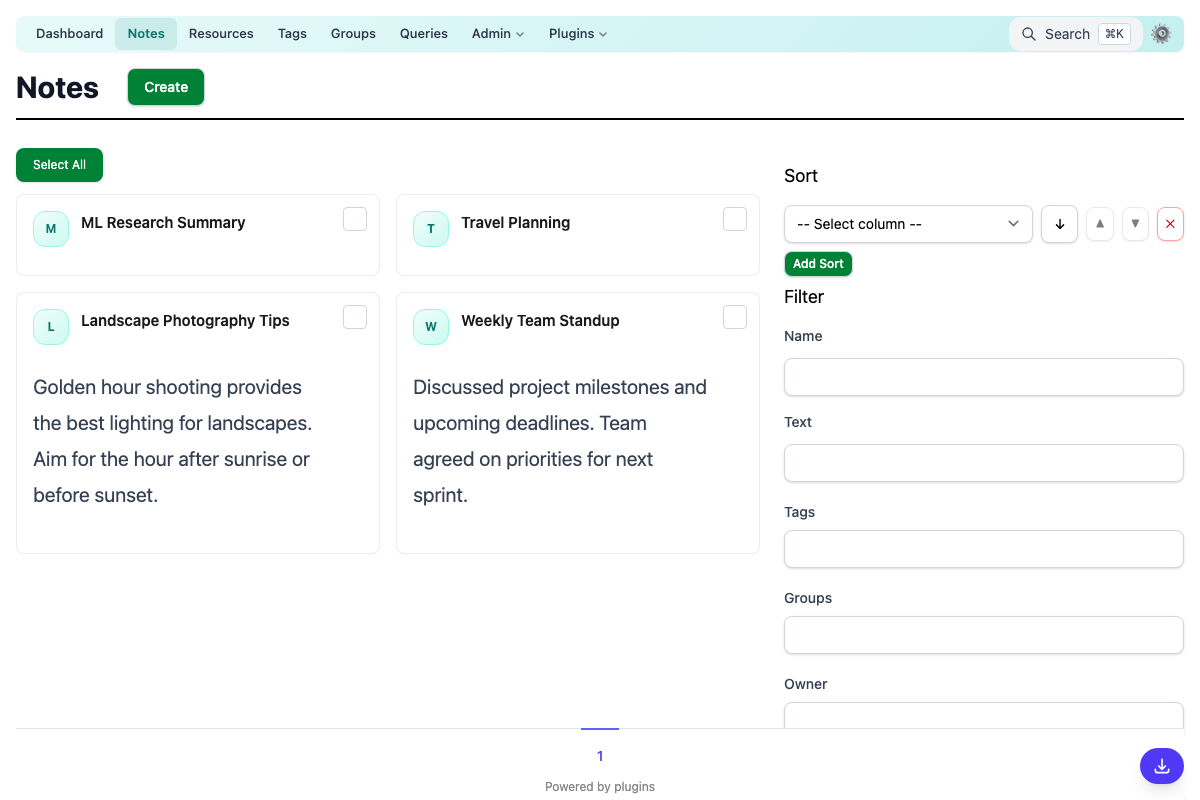
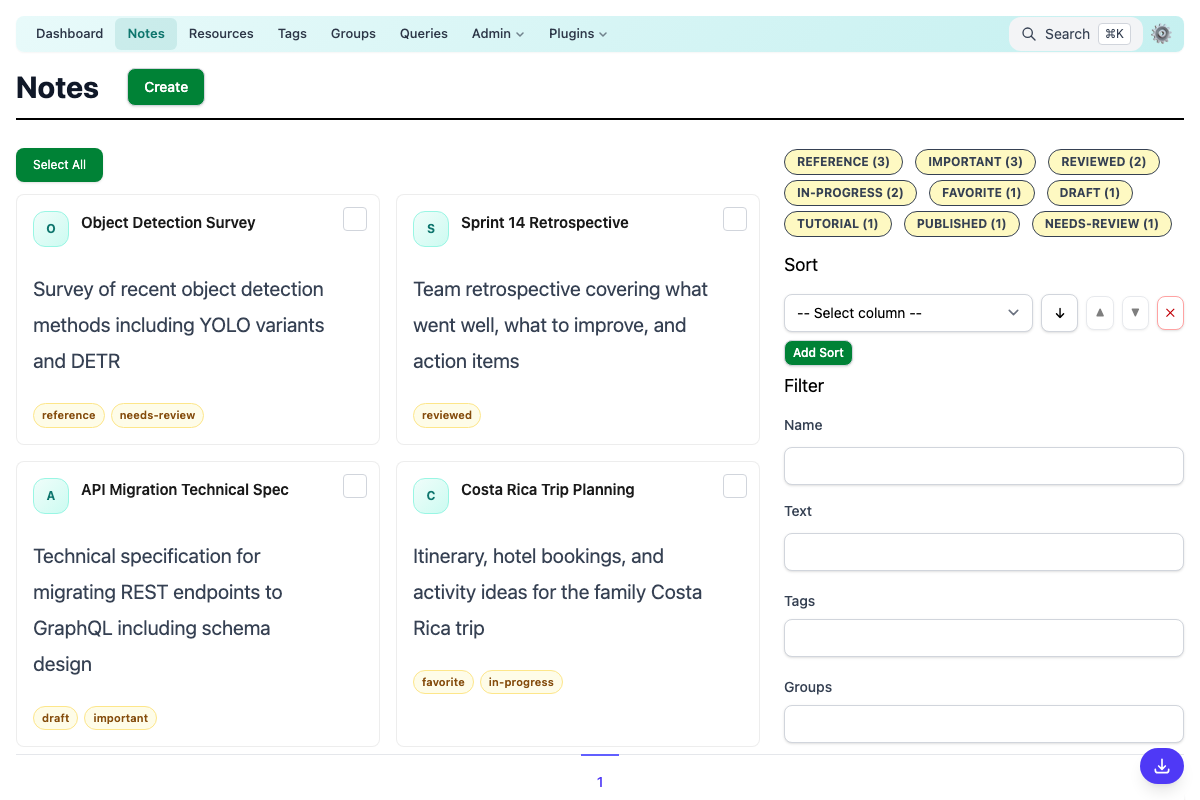
docs: retake all screenshots with richer seed data and add to concept pages
Seeded ephemeral instance with realistic data (13 resources with gradient
images, 12 groups with hierarchy, 8 notes with blocks, 12 tags, 3 versions)
and retook all 24 screenshots. Added 2 new screenshots (relation-list,
relation-types). Added screenshot references to 10 doc pages that were
missing them. Updated screenshot-manifest.json with accurate descriptions.

diff --git a/docs-site/docs/concepts/tags-categories.md b/docs-site/docs/concepts/tags-categories.md
@@ -10,6 +10,8 @@ Tags are flat cross-entity labels, while Categories and Resource Categories defi
 
 Tags are simple labels that can be applied to Resources, Notes, and Groups.
 
+![Tags list](/img/tag-list.png)
+
 ### Tag Properties
 
 | Property | Description |
@@ -141,6 +143,8 @@ Multiple tags are AND-ed (items must have all specified tags).
 ## Categories
 
 Categories define types of Groups with custom presentation and optional metadata schemas.
+
+![Categories list](/img/category-list.png)
 
 ### Category Properties
 

diff --git a/docs-site/docs/getting-started/first-steps.md b/docs-site/docs/getting-started/first-steps.md
@@ -14,6 +14,8 @@ Five main entity types form the core data model:
 - **Tags** - Labels you attach to Resources, Notes, and Groups
 - **Categories** - Types for your Groups (e.g., Person, Project, Topic)
 
+![Dashboard after first setup](/img/dashboard.png)
+
 ## Step 1: Create a Category
 
 Categories define what kind of thing a Group represents (e.g., "Person", "Project", "Location"). Groups can optionally have a Category, but creating a few early helps keep things organized.

diff --git a/docs-site/docs/concepts/relationships.md b/docs-site/docs/concepts/relationships.md
@@ -6,6 +6,8 @@ sidebar_position: 6
 
 Typed relationships add meaning to connections between Groups beyond ownership or many-to-many associations. Each relationship is a directed edge with a named type, forming a navigable graph.
 
+![Relations between groups](/img/relation-list.png)
+
 ## Relationship Types (RelationTypes)
 
 Relationship Types define the kinds of connections that can exist between groups.

diff --git a/docs-site/docs/concepts/groups.md b/docs-site/docs/concepts/groups.md
@@ -7,6 +7,8 @@ title: Groups
 
 Groups are hierarchical containers that organize Resources, Notes, and other Groups. Each Group can own entities (parent-child), relate to entities (many-to-many), and form typed relationships with other Groups via the Relations system.
 
+![Groups list](/img/group-list.png)
+
 ## Group Properties
 
 | Property | Type | Description |

diff --git a/docs-site/docs/concepts/notes.md b/docs-site/docs/concepts/notes.md
@@ -7,6 +7,8 @@ title: Notes
 
 A Note stores text content with optional start and end dates, a type classification, and relationships to Resources, Groups, and Tags. Notes support a block-based content system for structured editing and public sharing via unique tokens.
 
+![Notes list](/img/note-list.png)
+
 ## Note Properties
 
 | Property | Type | Description |

diff --git a/docs-site/docs/concepts/note-blocks.md b/docs-site/docs/concepts/note-blocks.md
@@ -7,6 +7,8 @@ title: Note Blocks
 
 Note Blocks provide a structured content system within Notes. Each block has a type, a string-based position for ordering, JSON content (edited in edit mode), and JSON state (modified while viewing).
 
+![Note with blocks](/img/note-blocks.png)
+
 ## Block Properties
 
 | Property | Type | Description |

diff --git a/docs-site/docs/concepts/resources.md b/docs-site/docs/concepts/resources.md
@@ -6,6 +6,8 @@ sidebar_position: 2
 
 Every file in Mahresources is a Resource: images, documents, videos, or anything else. Each file is hashed for deduplication, gets automatic thumbnails where supported, and has version history.
 
+![Resource grid view](/img/grid-view.png)
+
 ## Resource Properties
 
 | Property | Description |

diff --git a/docs-site/docs/concepts/overview.md b/docs-site/docs/concepts/overview.md
@@ -6,6 +6,8 @@ sidebar_position: 1
 
 Mahresources organizes data around eleven entity types connected by ownership and many-to-many relationships.
 
+![Dashboard overview](/img/dashboard.png)
+
 ## Entity Types
 
 | Entity | Purpose | Example Uses |

diff --git a/docs-site/docs/user-guide/managing-resources.md b/docs-site/docs/user-guide/managing-resources.md
@@ -6,6 +6,8 @@ sidebar_position: 2
 
 Resources are files of any type: images, documents, videos, or anything else you want to store and organize.
 
+![Resource detail view](/img/resource-detail-view.png)
+
 ## Uploading Resources
 
 ### File Upload

diff --git a/docs-site/docs/user-guide/managing-notes.md b/docs-site/docs/user-guide/managing-notes.md
@@ -6,6 +6,8 @@ sidebar_position: 3
 
 Create, edit, and organize text content with date ranges, block-based editing, metadata, and type-specific templates.
 
+![Notes list view](/img/note-list.png)
+
 ## Creating Notes
 
 ### Basic Note Creation
